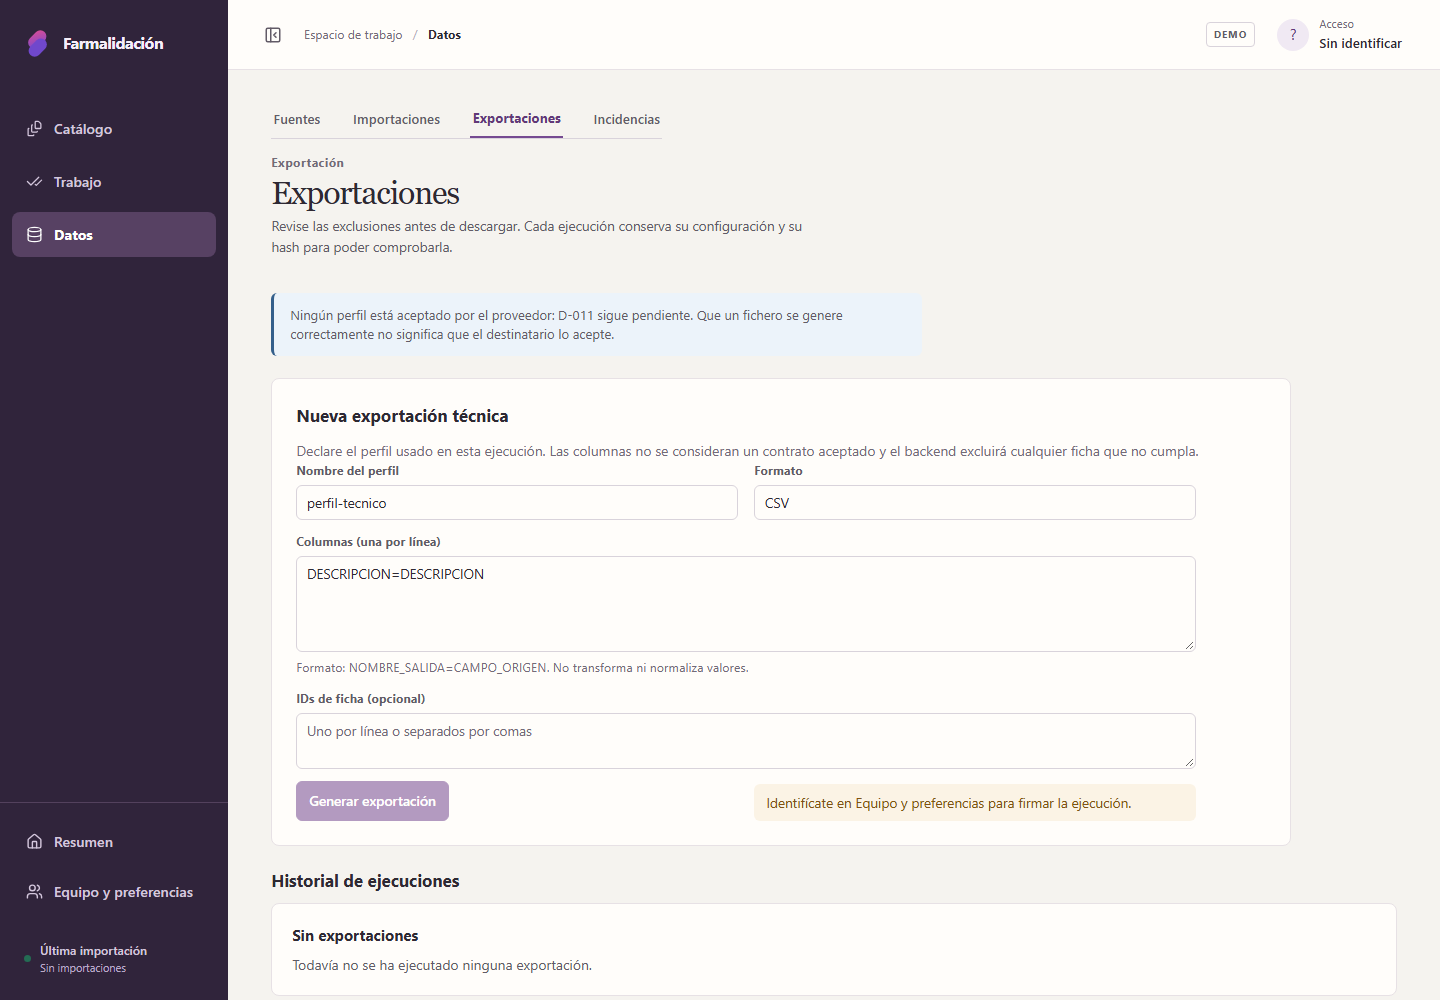
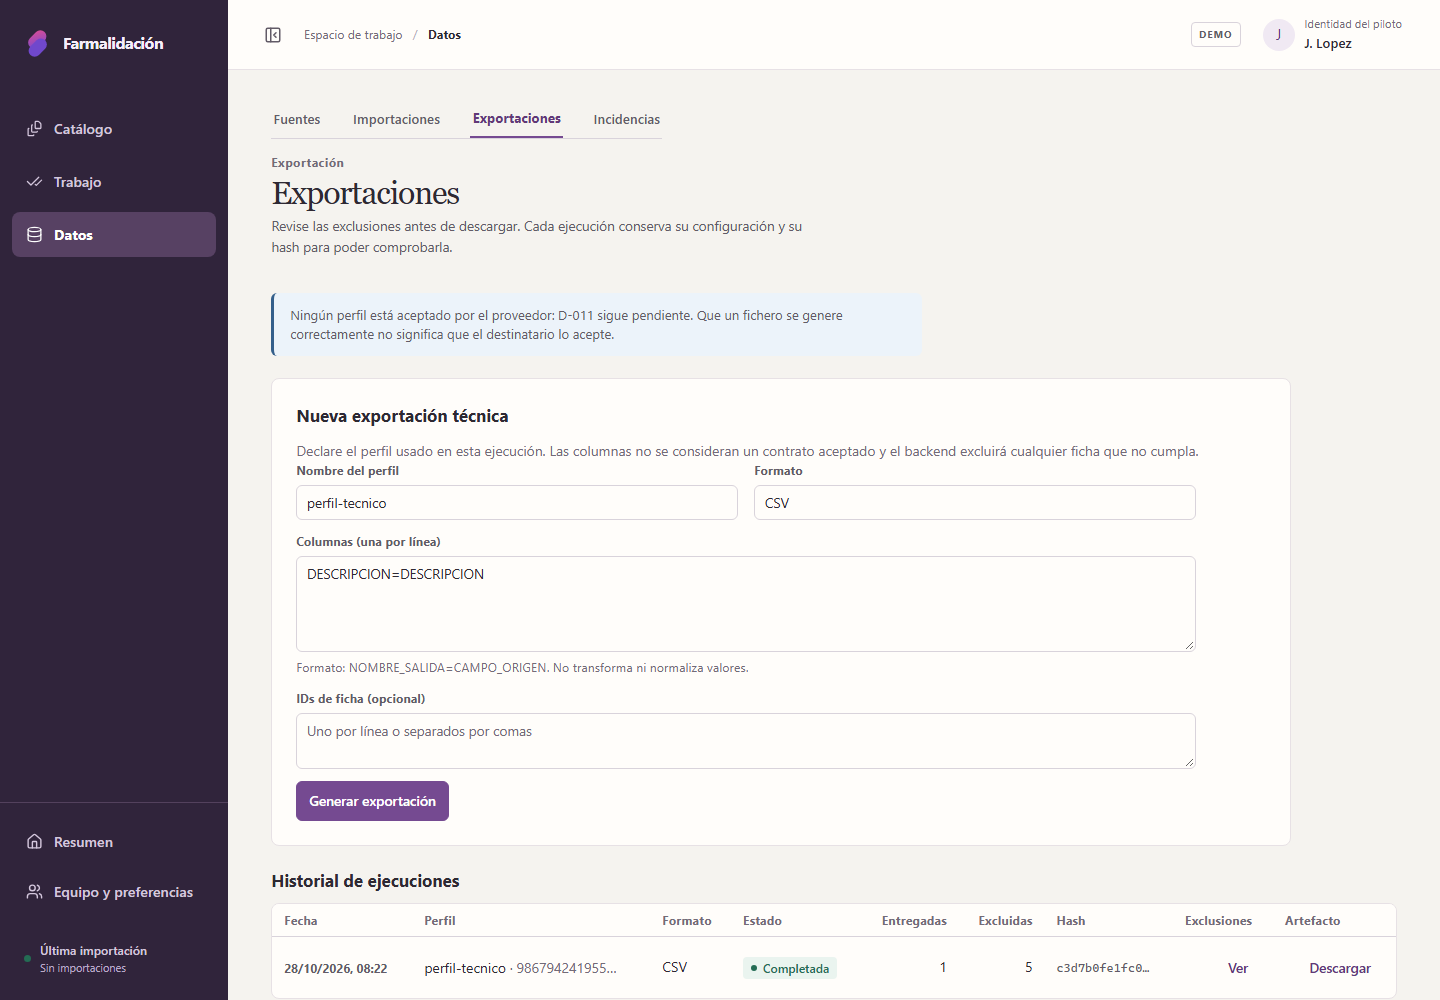
Dar a cada estado un tono propio en toda la aplicación
Los distintivos se agrupan por significado: sin empezar (neutro), en
curso (acento), corregido (información), resuelto (éxito), requiere
atención (aviso) y fallo (peligro). Antes «Corregido» y «Pendiente»
compartían violeta en el expediente y «Completada» salía en gris en las
exportaciones. La cabecera de fila de las tablas deja de llevar fondo
propio y el icono de evidencia pasa de un carácter a un icono.

diff --git a/validador-fichas-tecnicas-repo-kit/frontend/src/ui/components.css b/validador-fichas-tecnicas-repo-kit/frontend/src/ui/components.css
@@ -103,8 +103,15 @@ code, kbd, .mono { font-family: var(--font-mono); font-size: var(--text-code); f
   white-space: nowrap;
 }
 .app-shell .badge::before { content: ''; width: 6px; height: 6px; flex: none; border-radius: 50%; background: currentColor; }
-.app-shell .badge--validado, .app-shell .badge--confirmado, .app-shell .badge--disponible, .app-shell .badge--completed { color: var(--success); background: var(--success-soft); }
-.app-shell .badge--descartado, .app-shell .badge--sin_datos, .app-shell .badge--no_disponible { color: var(--ink-soft); background: var(--line-soft); }
+/* Un tono por significado, no por pantalla: sin empezar (neutro), en curso
+   (acento), corregido (información), resuelto (éxito), requiere atención
+   (aviso) y fallo (peligro). */
+.app-shell :is(.badge--pendiente, .badge--asignado, .badge--no_aplica, .badge--no_aplicable, .badge--descartado, .badge--sin_datos, .badge--no_disponible, .badge--info) { color: var(--ink-soft); background: var(--line-soft); }
+.app-shell :is(.badge--en_revision, .badge--requiere_segunda_revision, .badge--pending, .badge--parcial, .badge--running) { color: var(--accent-strong); background: var(--accent-soft); }
+.app-shell .badge--corregido { color: var(--info); background: var(--info-soft); }
+.app-shell :is(.badge--validado, .badge--confirmado, .badge--completado, .badge--completed, .badge--disponible) { color: var(--success); background: var(--success-soft); }
+.app-shell :is(.badge--no_consta, .badge--revision_pendiente, .badge--warning, .badge--advertencia, .badge--bloqueado, .badge--bloqueado_por_contrato) { color: var(--warn); background: var(--warn-soft); }
+.app-shell :is(.badge--requiere_revision, .badge--error, .badge--failed, .badge--fallido, .badge--con_errores, .badge--bloqueante) { color: var(--danger); background: var(--danger-soft); }
 
 /* ── Chips de filtro activo ────────────────────────────────────────────── */
 .app-shell .chip {
@@ -134,6 +141,7 @@ code, kbd, .mono { font-family: var(--font-mono); font-size: var(--text-code); f
 }
 .app-shell .table tbody th,
 .app-shell .table tbody td { padding-block: calc(var(--cell-y) * .7); border-bottom: 1px solid var(--line-soft); vertical-align: middle; }
+.app-shell .table tbody th { background: transparent; }
 .app-shell .table tbody tr { transition: background-color var(--motion-fast) ease; }
 .app-shell .table tbody tr:hover { background: color-mix(in srgb, var(--accent-soft) 45%, transparent); }
 

diff --git a/validador-fichas-tecnicas-repo-kit/frontend/src/screens/ReviewScreen.tsx b/validador-fichas-tecnicas-repo-kit/frontend/src/screens/ReviewScreen.tsx
@@ -1,4 +1,5 @@
 import { useCallback, useEffect, useMemo, useRef, useState } from 'react'
+import { FileSearch } from 'lucide-react'
 
 import {
   ApiError,
@@ -588,7 +589,7 @@ export function ReviewScreen({
           className='panel review-evidence'
           aria-label='Evidencia del campo activo'
         >
-          <div className='evidence-head'><span className='evidence-head__icon' aria-hidden='true'>⌕</span><div><p className='eyebrow'>Fuente activa</p><h2>Evidencia · {activeField?.field_name ?? 'Sin campos'}</h2></div></div>
+          <div className='evidence-head'><span className='evidence-head__icon' aria-hidden='true'><FileSearch size={16} /></span><div><p className='eyebrow'>Fuente activa</p><h2>Evidencia · {activeField?.field_name ?? 'Sin campos'}</h2></div></div>
           {activeField ? (
             <ProvenanceList key={activeField.id} provenance={activeField.provenance} highlightField={activeField.field_name} contextual={compact} />
           ) : (
